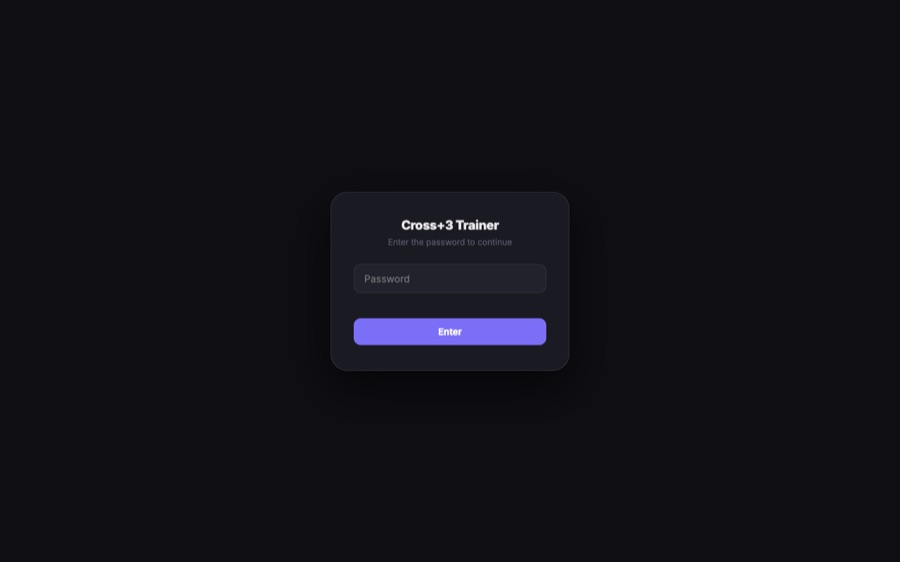
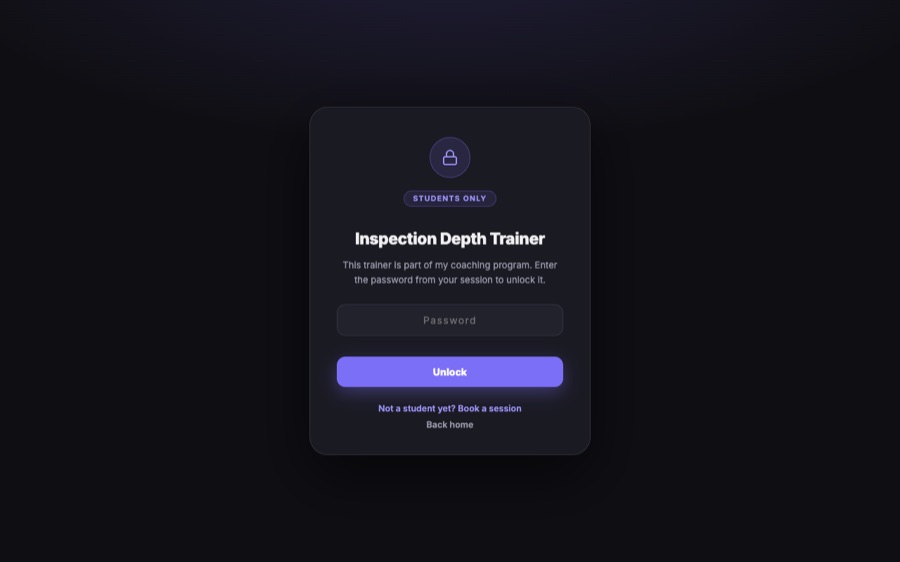
Redesign the students-only gate on the Inspection Depth Trainer
Lock icon, Students Only tag, booking link for non-students, error
shake, staggered entrance; matching lock badge on the tools card.

Changed region(s): [[0.3422, 0.5445, 0.6533, 0.7865], [0.3733, 0.242, 0.6222, 0.5142], [0.3733, 0.0, 0.6222, 0.0302]]

diff --git a/cross-trainer.html b/cross-trainer.html
@@ -655,24 +655,86 @@
       color: #5a5a6a;
       margin-bottom: 6px;
     }
+  
+    /* ── students-only gate ── */
+    #passwordGate {
+      position: fixed; inset: 0; background: #0f0f13; z-index: 9999;
+      align-items: center; justify-content: center; user-select: text;
+    }
+    #passwordGate::before {
+      content: ''; position: absolute; inset: 0; pointer-events: none;
+      background: radial-gradient(90% 55% at 50% -10%, rgba(124,111,247,0.16), transparent 65%);
+    }
+    .gate-card {
+      position: relative; width: 400px; max-width: 92vw; text-align: center;
+      background: #1a1a22; border: 1px solid rgba(255,255,255,0.09); border-radius: 26px;
+      padding: 2.6rem 2.4rem 2.2rem; box-shadow: 0 30px 80px rgba(0,0,0,0.6);
+    }
+    .gate-card > * { animation: gateIn .55s cubic-bezier(.22,1,.36,1) both; }
+    .gate-card > *:nth-child(1) { animation-delay: .05s; }
+    .gate-card > *:nth-child(2) { animation-delay: .11s; }
+    .gate-card > *:nth-child(3) { animation-delay: .17s; }
+    .gate-card > *:nth-child(4) { animation-delay: .23s; }
+    .gate-card > *:nth-child(5) { animation-delay: .29s; }
+    .gate-card > *:nth-child(6) { animation-delay: .35s; }
+    .gate-card > *:nth-child(7) { animation-delay: .41s; }
+    @keyframes gateIn { from { opacity: 0; transform: translateY(14px); } to { opacity: 1; transform: none; } }
+    .gate-card.shake { animation: gateShake .4s ease; }
+    @keyframes gateShake { 0%,100% { transform: translateX(0); } 25% { transform: translateX(-9px); } 55% { transform: translateX(7px); } 80% { transform: translateX(-4px); } }
+    .gate-lock {
+      width: 58px; height: 58px; margin: 0 auto 1.1rem; border-radius: 50%;
+      background: rgba(124,111,247,0.14); border: 1px solid rgba(124,111,247,0.35);
+      display: flex; align-items: center; justify-content: center; color: #9d93f9;
+    }
+    .gate-tag {
+      display: inline-block; font-size: 10.5px; font-weight: 700; letter-spacing: 0.12em; text-transform: uppercase;
+      color: #9d93f9; background: rgba(124,111,247,0.12); border: 1px solid rgba(124,111,247,0.3);
+      padding: 4px 13px; border-radius: 50px; margin-bottom: 1rem;
+    }
+    .gate-title { font-size: 23px; font-weight: 800; color: #f0f0f0; letter-spacing: -0.02em; margin-bottom: 0.5rem; }
+    .gate-sub { font-size: 13px; color: #9a9aab; line-height: 1.65; margin-bottom: 1.5rem; }
+    #passwordInput {
+      width: 100%; padding: 13px 15px; background: #22222c; border: 1px solid rgba(255,255,255,0.08);
+      border-radius: 12px; color: #f0f0f0; font-family: 'Inter', sans-serif; font-size: 14px;
+      outline: none; text-align: center; letter-spacing: 0.1em; transition: border-color .2s;
+    }
+    #passwordInput:focus { border-color: rgba(124,111,247,0.55); }
+    #passwordError { font-size: 11.5px; color: #ef4444; min-height: 18px; margin: 8px 0 4px; font-weight: 600; }
+    .gate-btn {
+      width: 100%; padding: 13px; border-radius: 12px; border: none; cursor: pointer;
+      background: #7c6ff7; color: #fff; font-family: 'Inter', sans-serif; font-size: 14px; font-weight: 800;
+      box-shadow: 0 8px 24px rgba(124,111,247,0.35);
+      transition: background .2s, transform .2s, box-shadow .2s;
+    }
+    .gate-btn:hover { background: #6358e0; transform: translateY(-1px); box-shadow: 0 12px 30px rgba(124,111,247,0.45); }
+    .gate-btn:active { transform: scale(.97); }
+    .gate-links { display: flex; flex-direction: column; gap: 8px; margin-top: 1.4rem; }
+    .gate-links a { font-size: 12.5px; color: #9a9aab; text-decoration: none; font-weight: 600; transition: color .2s; }
+    .gate-links a:hover { color: #f0f0f0; }
+    .gate-links a.cta { color: #9d93f9; }
+    .gate-links a.cta:hover { color: #c1baff; }
   </style>
 </head>
 <body>
 
-<!-- Password Gate -->
-<div id="passwordGate" style="display:none;position:fixed;inset:0;background:#0f0f13;z-index:9999;align-items:center;justify-content:center;">
-  <div style="background:#1a1a22;border:1px solid rgba(255,255,255,0.09);border-radius:24px;padding:36px 32px;width:340px;max-width:90vw;box-shadow:0 24px 64px rgba(0,0,0,0.7);text-align:center;">
-    <div style="font-size:18px;font-weight:800;color:#e8e8e8;letter-spacing:-0.02em;margin-bottom:6px;">Inspection Depth Trainer</div>
-    <div style="font-size:12px;color:#5a5a6a;margin-bottom:24px;">Enter the password to continue</div>
-    <input id="passwordInput" type="password" placeholder="Password"
-      style="width:100%;padding:11px 14px;background:#22222c;border:1px solid rgba(255,255,255,0.08);border-radius:10px;color:#e8e8e8;font-family:'Inter',sans-serif;font-size:14px;outline:none;box-sizing:border-box;margin-bottom:10px;"
-      onkeydown="if(event.key==='Enter')checkPassword()">
-    <div id="passwordError" style="font-size:11px;color:#ef4444;min-height:16px;margin-bottom:10px;"></div>
-    <button onclick="checkPassword()"
-      style="width:100%;padding:11px;border-radius:10px;border:none;background:#7c6ff7;color:#fff;font-family:'Inter',sans-serif;font-size:13px;font-weight:700;cursor:pointer;transition:background 0.15s;"
-      onmouseover="this.style.background='#6358e0'" onmouseout="this.style.background='#7c6ff7'">
-      Enter
-    </button>
+<!-- Students-only Gate -->
+<div id="passwordGate" style="display:none;">
+  <div class="gate-card" id="gateCard">
+    <div class="gate-lock">
+      <svg width="24" height="24" viewBox="0 0 24 24" fill="none" stroke="currentColor" stroke-width="2" stroke-linecap="round" stroke-linejoin="round" aria-hidden="true"><rect x="3" y="11" width="18" height="11" rx="2"/><path d="M7 11V7a5 5 0 0 1 10 0v4"/></svg>
+    </div>
+    <div><span class="gate-tag">Students Only</span></div>
+    <h1 class="gate-title">Inspection Depth Trainer</h1>
+    <p class="gate-sub">This trainer is part of my coaching program. Enter the password from your session to unlock it.</p>
+    <div>
+      <input id="passwordInput" type="password" placeholder="Password" onkeydown="if(event.key==='Enter')checkPassword()">
+      <div id="passwordError"></div>
+      <button class="gate-btn" onclick="checkPassword()">Unlock</button>
+    </div>
+    <div class="gate-links">
+      <a class="cta" href="index.html#coaching">Not a student yet? Book a session</a>
+      <a href="index.html">Back home</a>
+    </div>
   </div>
 </div>
 
@@ -692,6 +754,10 @@
       document.getElementById('passwordGate').style.display = 'none';
     } else {
       document.getElementById('passwordError').textContent = 'Incorrect password. Try again.';
+      var card = document.getElementById('gateCard');
+      card.classList.remove('shake');
+      void card.offsetWidth;
+      card.classList.add('shake');
       input.value = '';
       input.focus();
     }

diff --git a/tools.html b/tools.html
@@ -88,6 +88,7 @@
     border: 1px solid color-mix(in srgb, var(--c) 35%, transparent);
     padding: 3px 11px; border-radius: 50px;
   }
+  .tool-tag.lock { left: auto; right: 0.9rem; display: inline-flex; align-items: center; gap: 5px; }
   .tool-body { padding: 1.4rem 1.6rem 1.6rem; display: flex; flex-direction: column; gap: 0.4rem; flex: 1; }
   .tool-name { font-size: 19px; font-weight: 800; color: var(--white); letter-spacing: -0.01em; }
   .tool-desc { font-size: 13.5px; color: var(--muted); line-height: 1.65; flex: 1; }
@@ -132,6 +133,7 @@
       <div class="tool-img">
         <img src="assets/tools/cross-trainer.jpg" alt="Inspection Depth Trainer preview" loading="lazy">
         <span class="tool-tag">Cross</span>
+        <span class="tool-tag lock"><svg width="10" height="10" viewBox="0 0 24 24" fill="none" stroke="currentColor" stroke-width="2.5" stroke-linecap="round" stroke-linejoin="round" aria-hidden="true"><rect x="3" y="11" width="18" height="11" rx="2"/><path d="M7 11V7a5 5 0 0 1 10 0v4"/></svg>Students only</span>
       </div>
       <div class="tool-body">
         <div class="tool-name">Inspection Depth Trainer</div>
